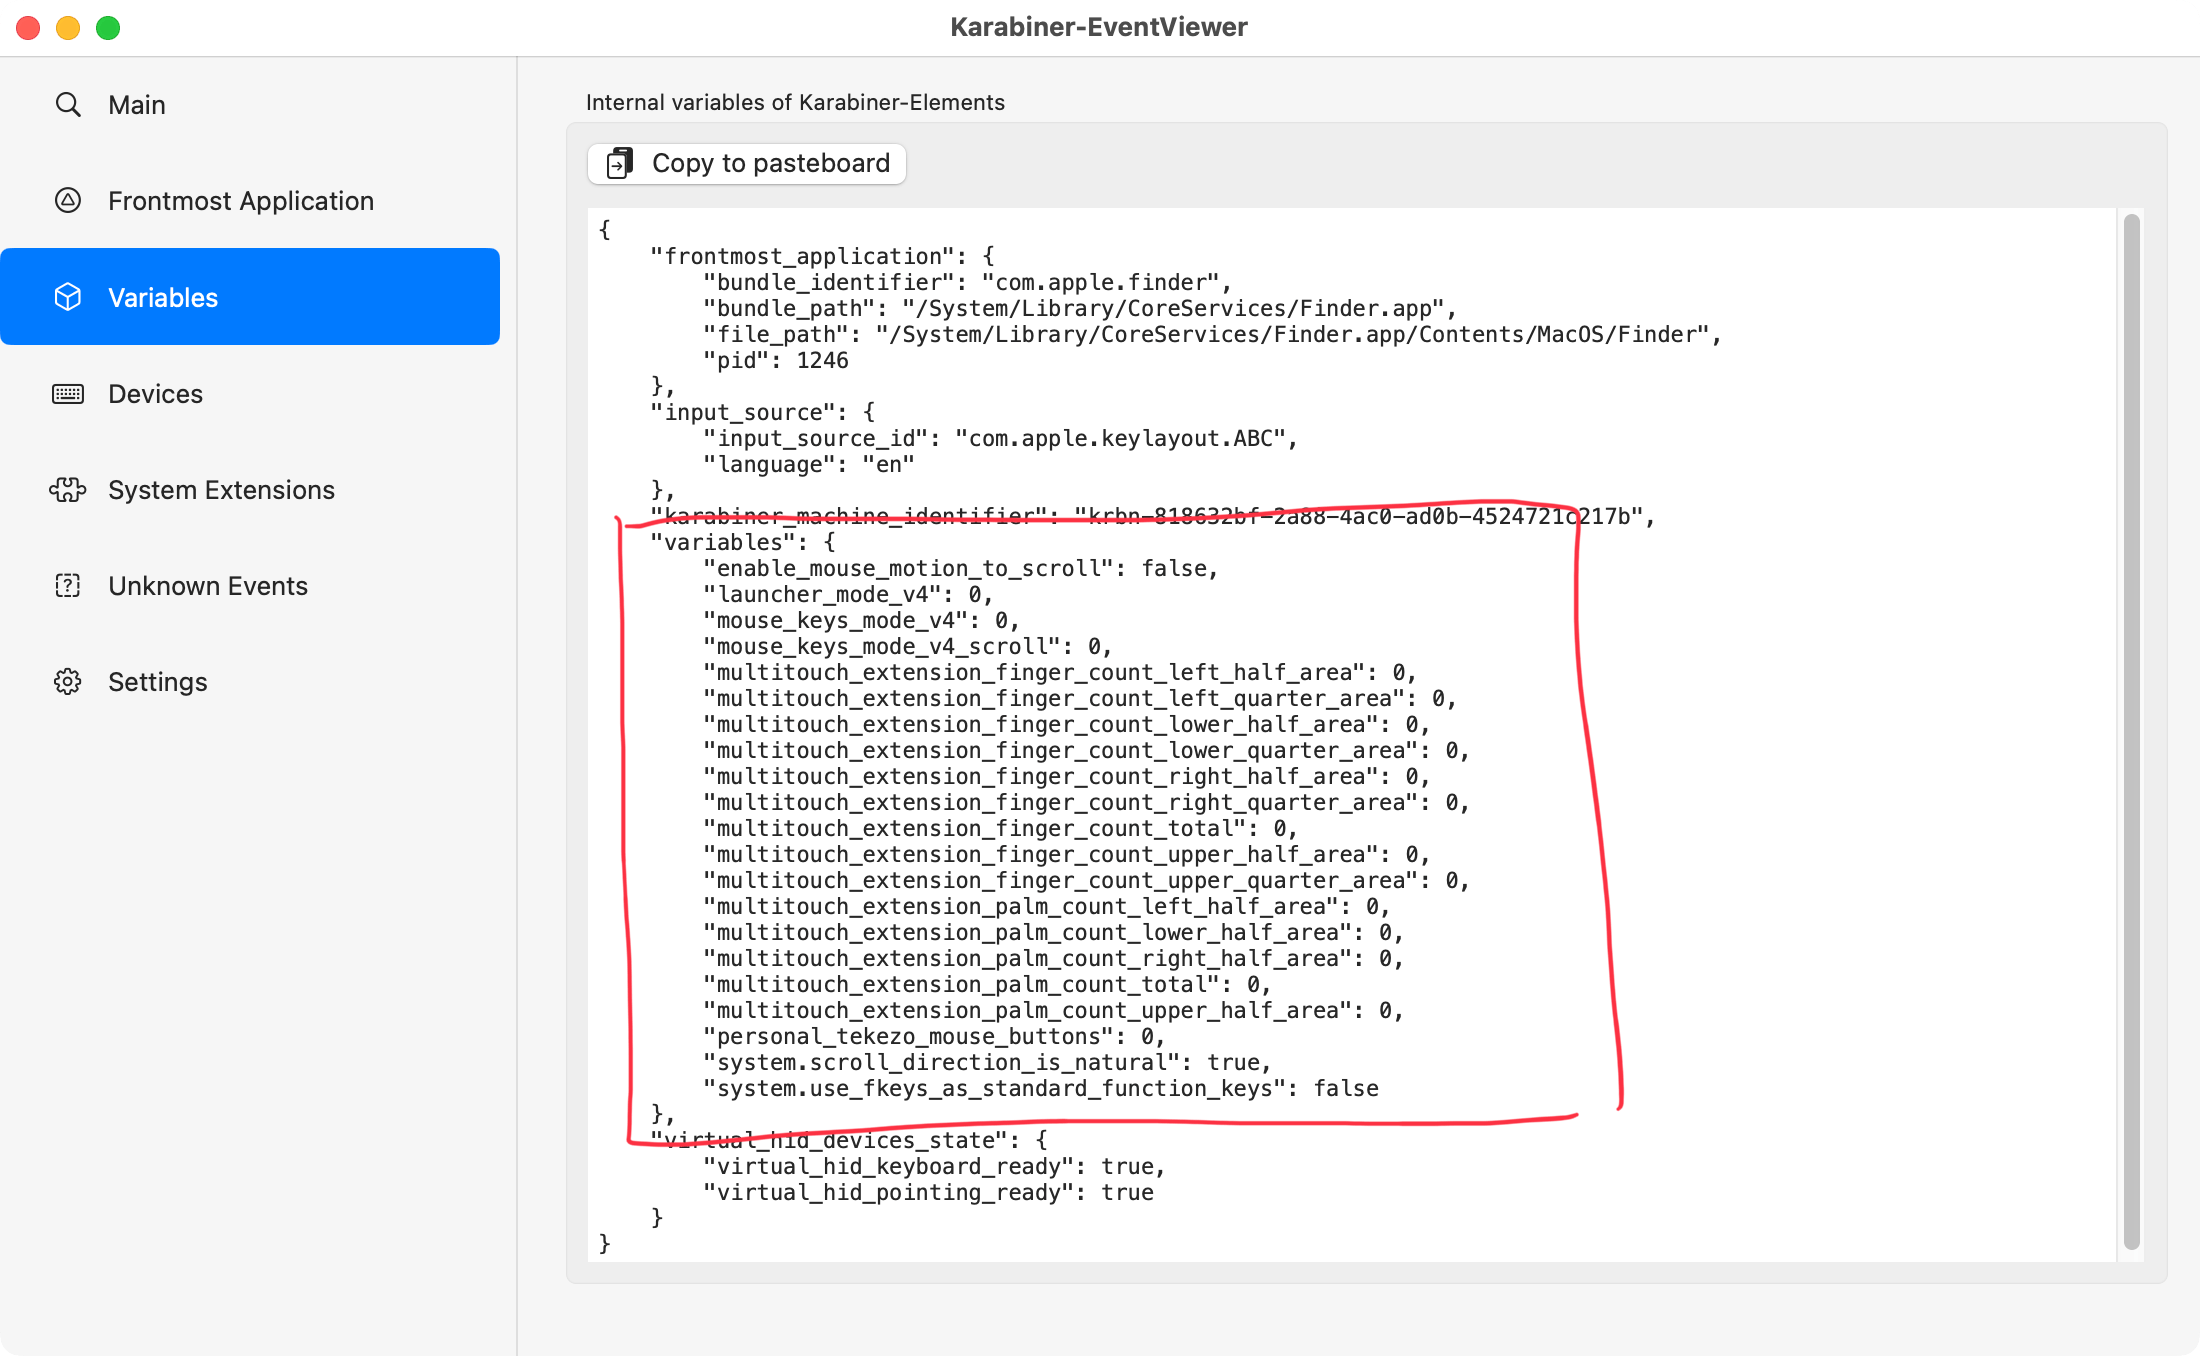
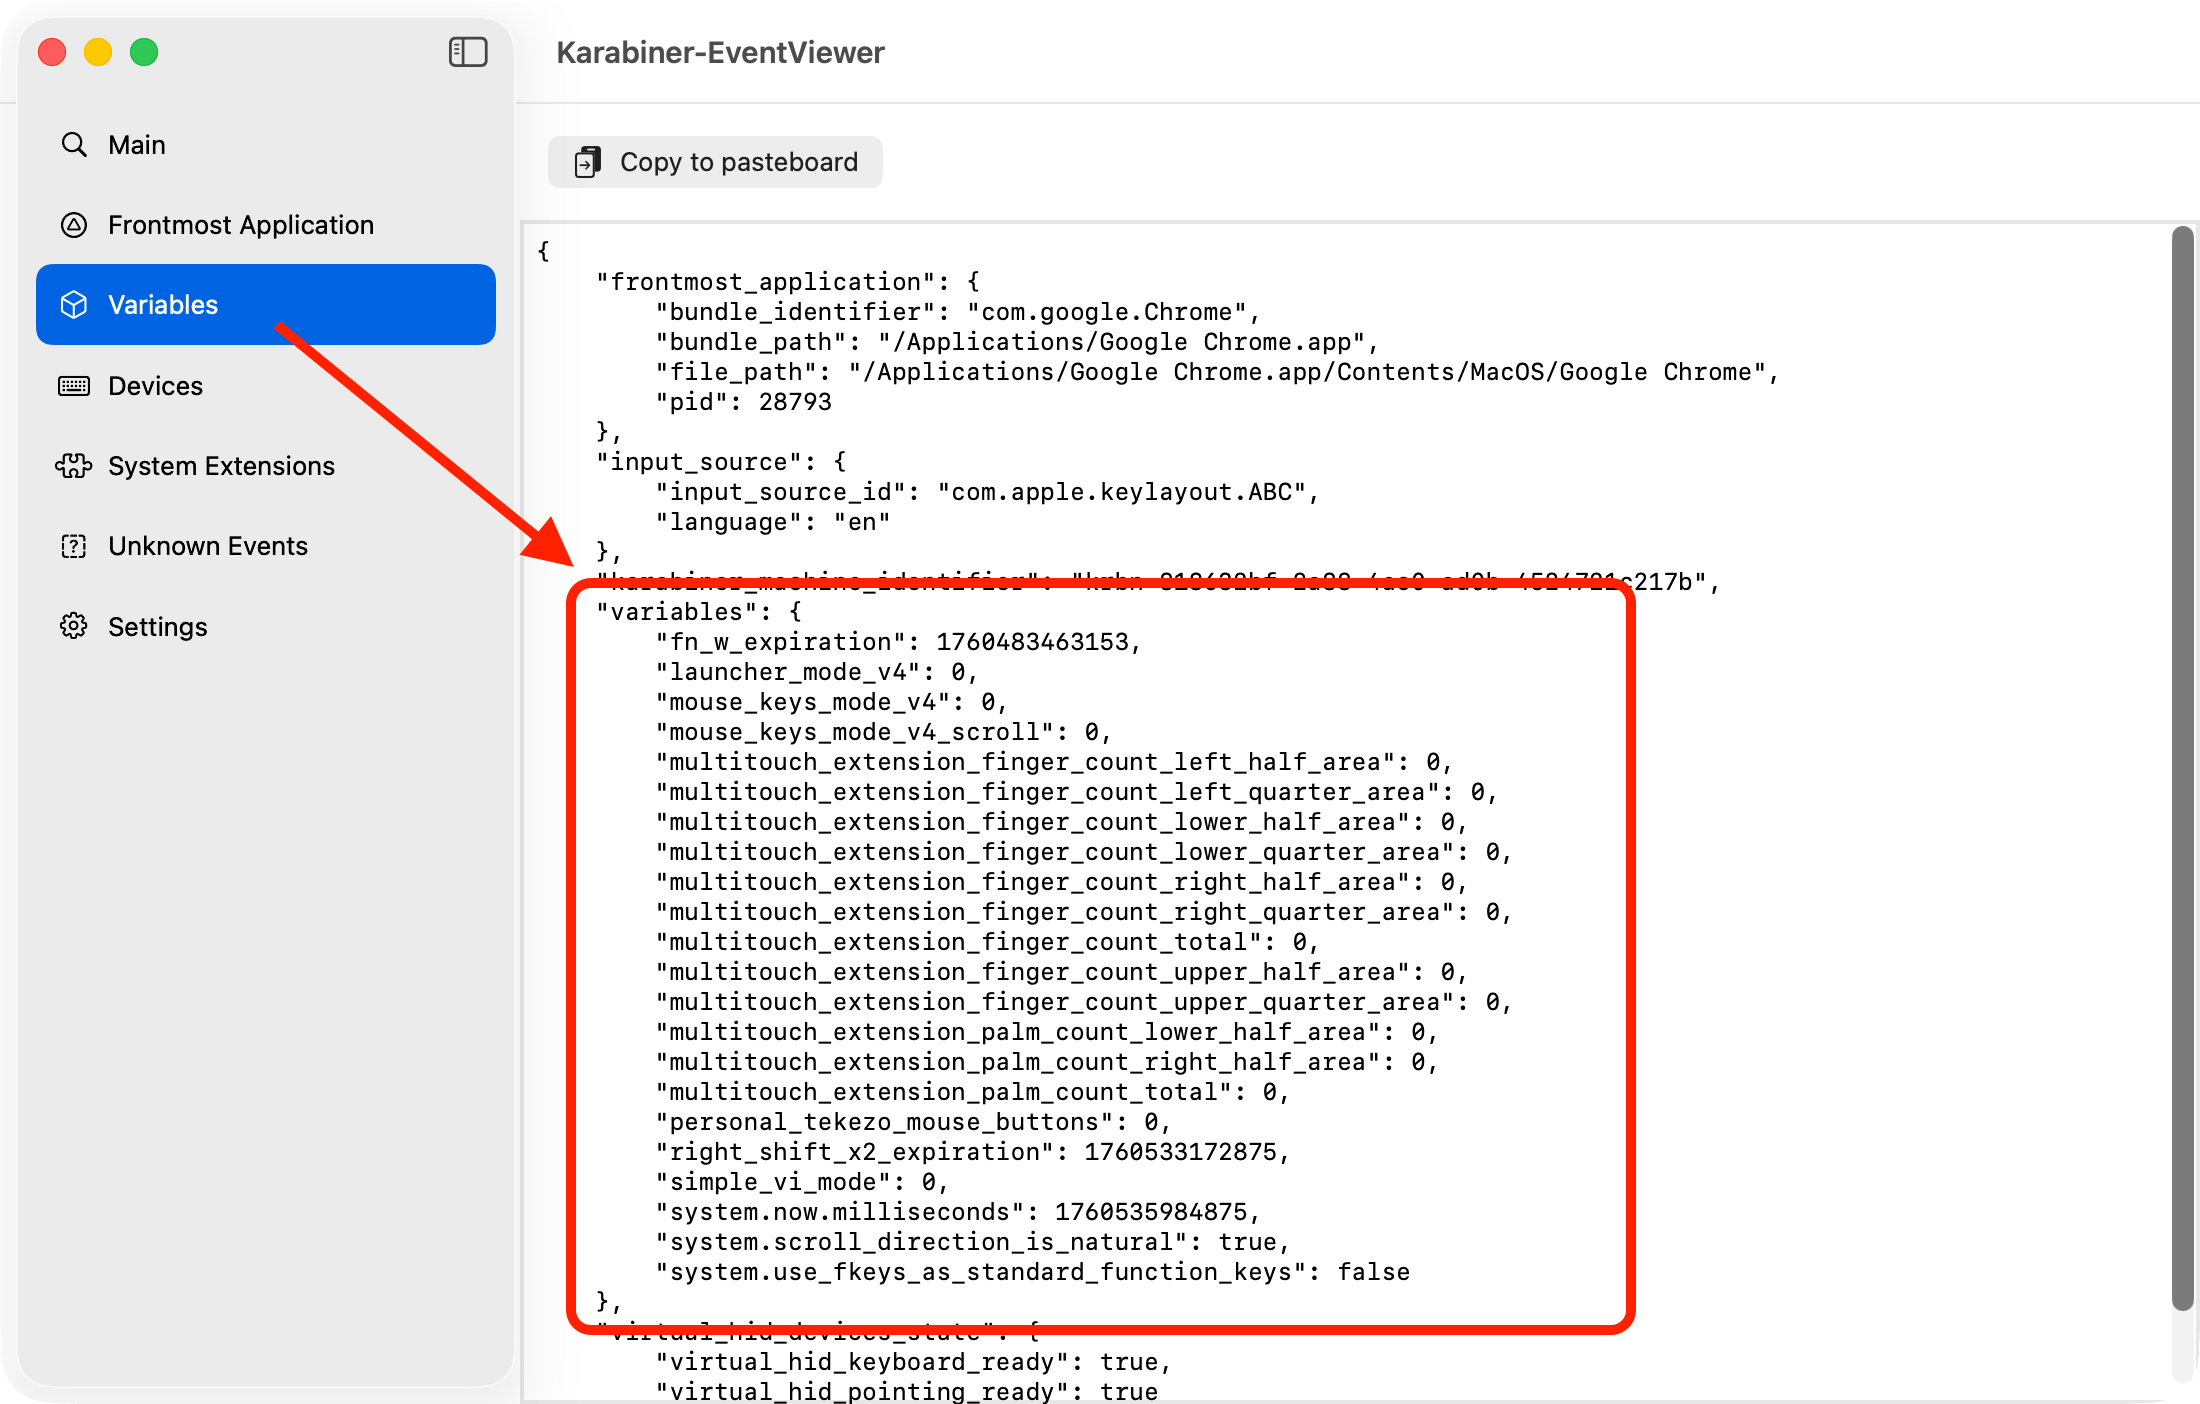
Add set_variable.expression, key_up_expression

diff --git a/sites/karabiner-elements/content/en/docs/json/complex-modifications-manipulator-definition/to/set-variable/index.md b/sites/karabiner-elements/content/en/docs/json/complex-modifications-manipulator-definition/to/set-variable/index.md
@@ -7,7 +7,10 @@ weight: 300
 
 {{% alert title="Tip" color="primary" %}}
 
-`set_variable` is designed to use with [`variable_if` and `variable_unless` conditions](../../conditions/variable/).
+`set_variable` is designed to use with the following conditions:
+
+-   [`variable_if` and `variable_unless` conditions](../../conditions/variable/)
+-   [`expression_if` and `expression_unless` conditions](../../conditions/expression/).
 
 {{% /alert %}}
 
@@ -74,7 +77,9 @@ Pressing the <kbd>a</kbd> key while holding the <kbd>escape</kbd> key launches A
             "set_variable": {
                 "name": "variable name",
                 "value": variable value,
+                "expression": expression,
                 "key_up_value": variable value,
+                "key_up_expression": expression,
                 "type": "set"
             }
         }
@@ -82,12 +87,14 @@ Pressing the <kbd>a</kbd> key while holding the <kbd>escape</kbd> key launches A
 }
 ```
 
-| Name           | Required             | Description                     | Available since            |
-| -------------- | -------------------- | ------------------------------- | -------------------------- |
-| `name`         | **Required**         | Target variable name.           | Karabiner-Elements 11.0.0  |
-| `value`        | Required \| Optional | Target variable value.          | Karabiner-Elements 11.0.0  |
-| `key_up_value` | Optional             | A variable value when key is up | Karabiner-Elements 14.12.6 |
-| `type`         | Optional             | "set" or "unset"                | Karabiner-Elements 14.99.2 |
+| Name                | Required             | Description                     | Available since            |
+| ------------------- | -------------------- | ------------------------------- | -------------------------- |
+| `name`              | **Required**         | Target variable name.           | Karabiner-Elements 11.0.0  |
+| `value`             | Required \| Optional | Target variable value.          | Karabiner-Elements 11.0.0  |
+| `expression`        | Required \| Optional | Target expression.              | Karabiner-Elements 15.5.19 |
+| `key_up_value`      | Optional             | A variable value when key is up | Karabiner-Elements 14.12.6 |
+| `key_up_expression` | Optional             | An expression when key is up    | Karabiner-Elements 15.5.19 |
+| `type`              | Optional             | "set" or "unset"                | Karabiner-Elements 14.99.2 |
 
 Note: If `key_up_value` or `type` is specified, the `value` can be omitted.
 
@@ -98,6 +105,69 @@ Note: If `key_up_value` or `type` is specified, the `value` can be omitted.
 | integer | 0,1,2,...          | Karabiner-Elements 11.0.0  |
 | boolean | true, false        | Karabiner-Elements 14.4.20 |
 | string  | "layer1", "layer2" | Karabiner-Elements 14.4.20 |
+
+## Expression specification
+
+`expression` and `key_up_expression` allow you to write arithmetic expressions,
+and you can use variables set by other `set_variable` manipulations or the following system-provided variables.
+If an undefined variable appears in the expression, its value is treated as 0.
+
+-   system.now.milliseconds
+-   system.scroll_direction_is_natural
+-   system.use_fkeys_as_standard_function_keys
+
+{{% alert color="primary" %}}
+
+The arithmetic syntax used in `expression` and `key_up_expression` follows [exprtk](https://www.partow.net/programming/exprtk/index.html).
+
+{{% /alert %}}
+
+### Expression examples
+
+Change <kbd>right_shift</kbd> x2 to <kbd>mission_control</kbd>.
+
+{{< karabiner-elements-complex-modifications-usage >}}
+
+```json
+{
+    "description": "Change right_shift x2 to mission_control",
+    "manipulators": [
+        {
+            "type": "basic",
+            "from": {
+                "key_code": "right_shift",
+                "modifiers": { "optional": ["any"] }
+            },
+            "to": [
+                { "apple_vendor_keyboard_key_code": "mission_control" },
+                { "key_code": "vk_none" }
+            ],
+            "conditions": [
+                {
+                    "type": "expression_if",
+                    "expression": "right_shift_x2_expiration > system.now.milliseconds"
+                }
+            ]
+        },
+        {
+            "type": "basic",
+            "from": {
+                "key_code": "right_shift",
+                "modifiers": { "optional": ["any"] }
+            },
+            "to": [
+                {
+                    "set_variable": {
+                        "name": "right_shift_x2_expiration",
+                        "expression": "system.now.milliseconds + 300"
+                    }
+                },
+                { "key_code": "right_shift" }
+            ]
+        }
+    ]
+}
+```
 
 ## Confirm the current variable values
 
